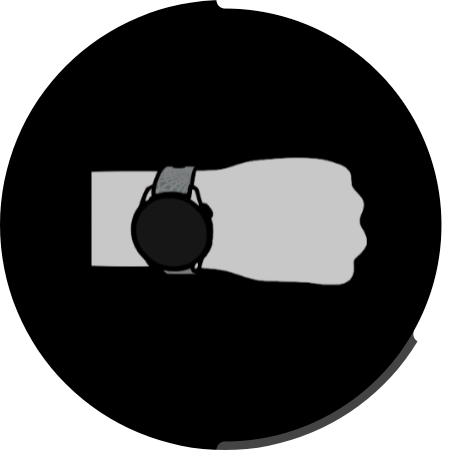
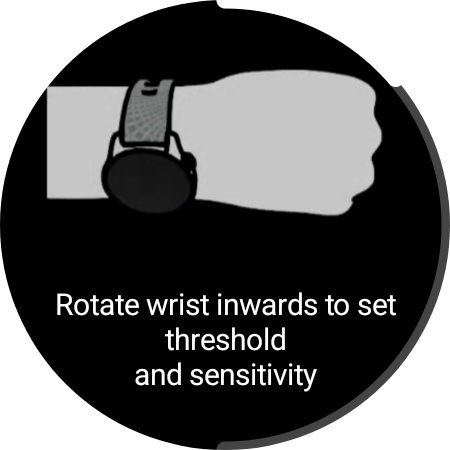
changed images

Changed region(s): [[0.0933, 0.1556, 0.9022, 0.7778], [0.8711, 0.1867, 1.0, 0.7778], [0.28, 0.8089, 0.7156, 0.8711]]

diff --git a/RetroTennisScreenshots/index.html b/RetroTennisScreenshots/index.html
@@ -537,6 +537,14 @@
           src="./images/LeaderBoard_Stub.png" alt="LeaderBoard_Stub" loading="lazy" decoding="async">
         <div class="filename">LeaderBoard_Stub.png</div>
       </button></div>
+    <div class="card"><button data-src="./images/Bat_Zones.png"><img class="thumb" src="./images/Bat_Zones.png"
+          alt="Bat_Zones" loading="lazy" decoding="async">
+        <div class="filename">Bat_Zones.png</div>
+      </button></div>
+    <div class="card"><button data-src="./images/Dynamic Tutorial screens.png"><img class="thumb"
+          src="./images/Dynamic Tutorial screens.png" alt="Dynamic Tutorial screens" loading="lazy" decoding="async">
+        <div class="filename">Dynamic Tutorial screens.png</div>
+      </button></div>
     <div class="card"><button data-src="./images/pronation.gif"><img class="thumb" src="./images/pronation.gif"
           alt="pronation" loading="lazy" decoding="async">
         <div class="filename">pronation.gif</div>
